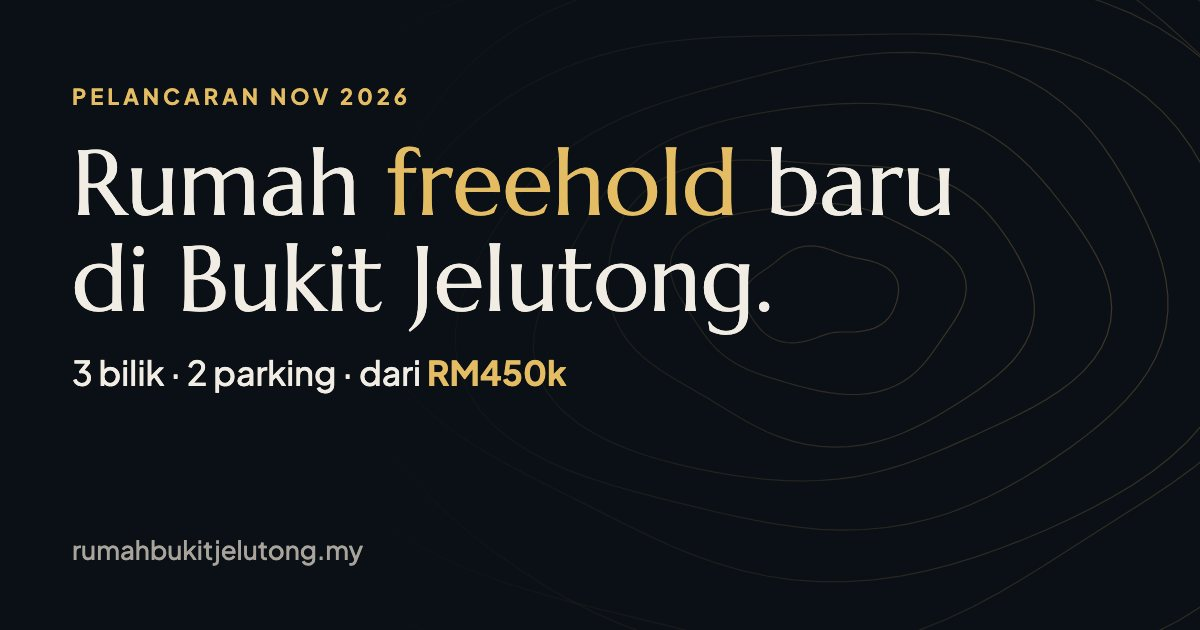
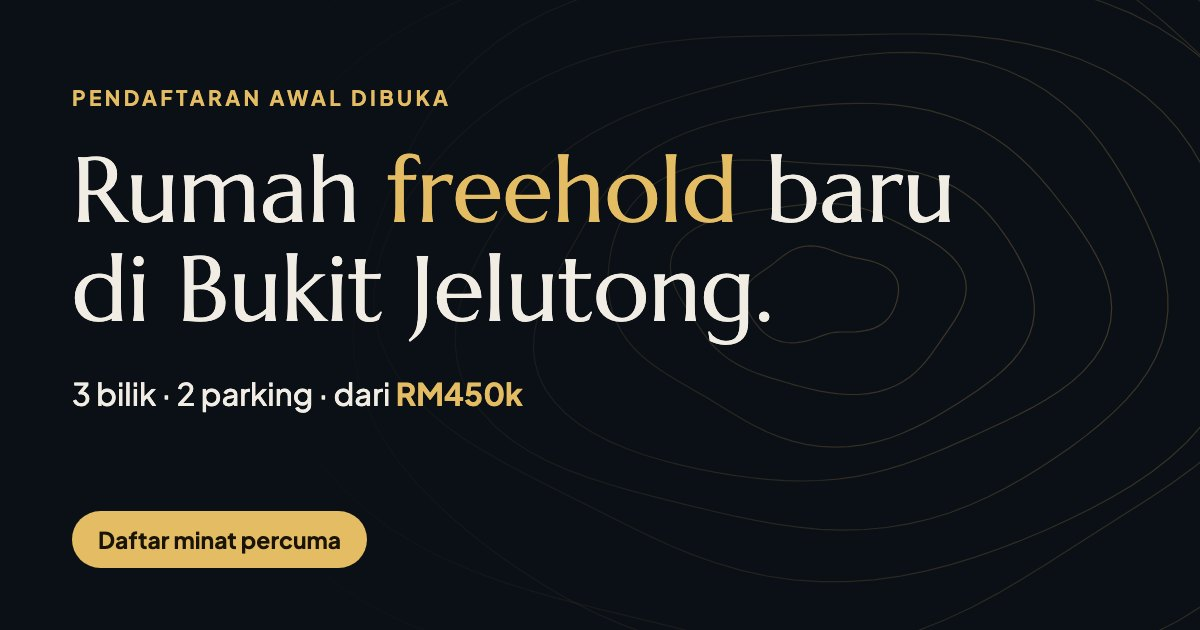
Move to fcgfelixcheng.com/rumahbukitjelutong for Meta traffic + SEO
Form moved under the hero, ?v= ad-matched headlines, relative paths,
no visit rows in the lead Sheet, new share image, launch date softened.

diff --git a/index.html b/index.html
@@ -5,16 +5,16 @@
 <meta name="viewport" content="width=device-width, initial-scale=1, viewport-fit=cover">
 <title>Rumah Bukit Jelutong Freehold Baru 2026 | 3 Bilik dari RM450k</title>
 <meta name="description" content="Projek kediaman freehold baru di Bukit Jelutong, Shah Alam. 3 bilik 2 bilik air dari RM450k, pilihan dual key, 2 parking. Showroom dibuka Nov 2026. Daftar minat percuma.">
-<link rel="canonical" href="https://rumahbukitjelutong.my/">
+<link rel="canonical" href="https://fcgfelixcheng.com/rumahbukitjelutong/">
 <meta name="theme-color" content="#0B1016">
-<link rel="icon" href="/favicon.svg" type="image/svg+xml">
-<link rel="apple-touch-icon" href="/assets/icon-180.png">
+<link rel="icon" href="favicon.svg" type="image/svg+xml">
+<link rel="apple-touch-icon" href="assets/icon-180.png">
 <meta property="og:type" content="website">
 <meta property="og:locale" content="ms_MY">
-<meta property="og:url" content="https://rumahbukitjelutong.my/">
+<meta property="og:url" content="https://fcgfelixcheng.com/rumahbukitjelutong/">
 <meta property="og:title" content="Rumah Freehold Baru di Bukit Jelutong | 3 Bilik dari RM450k">
 <meta property="og:description" content="Freehold. 3 bilik 2 bilik air, dual key, 2 parking. Showroom Nov 2026. Daftar minat percuma.">
-<meta property="og:image" content="https://rumahbukitjelutong.my/assets/og.jpg">
+<meta property="og:image" content="https://fcgfelixcheng.com/rumahbukitjelutong/assets/og.jpg">
 <meta property="og:image:width" content="1200">
 <meta property="og:image:height" content="630">
 <meta name="twitter:card" content="summary_large_image">
@@ -23,7 +23,7 @@
 <link rel="stylesheet" href="https://fonts.googleapis.com/css2?family=Marcellus&family=Plus+Jakarta+Sans:wght@400;500;600;700&family=Noto+Sans+SC:wght@500&display=swap">
 <script type="application/ld+json">
 {"@context":"https://schema.org","@graph":[
-{"@type":"WebSite","@id":"https://rumahbukitjelutong.my/#site","url":"https://rumahbukitjelutong.my/","name":"Rumah Bukit Jelutong","inLanguage":"ms-MY"},
+{"@type":"WebSite","@id":"https://fcgfelixcheng.com/rumahbukitjelutong/#site","url":"https://fcgfelixcheng.com/rumahbukitjelutong/","name":"Rumah Bukit Jelutong","inLanguage":"ms-MY"},
 {"@type":"Place","name":"Rumah freehold baru Bukit Jelutong","address":{"@type":"PostalAddress","addressLocality":"Bukit Jelutong, Shah Alam","addressRegion":"Selangor","postalCode":"40160","addressCountry":"MY"},"geo":{"@type":"GeoCoordinates","latitude":3.097673,"longitude":101.537301}},
 {"@type":"FAQPage","mainEntity":[
 {"@type":"Question","name":"Projek ni freehold ke?","acceptedAnswer":{"@type":"Answer","text":"Ya. Pegangan freehold di Bukit Jelutong, Shah Alam."}},
@@ -62,7 +62,7 @@ p{margin:0}
 .eyebrow{font-size:12.5px;font-weight:600;letter-spacing:.16em;text-transform:uppercase;color:var(--gold)}
 .en{color:var(--muted);font-size:14.5px}
 .num{font-variant-numeric:tabular-nums}
-section{padding-block:72px}
+section{padding-block:72px;scroll-margin-top:58px}
 .sec-head{display:flex;flex-direction:column;gap:12px;max-width:680px;margin-bottom:34px}
 /* top bar */
 .top{position:sticky;top:0;z-index:20;background:rgba(11,16,22,.86);backdrop-filter:blur(10px);-webkit-backdrop-filter:blur(10px);border-bottom:1px solid var(--line);padding-top:env(safe-area-inset-top,0px)}
@@ -82,7 +82,7 @@ section{padding-block:72px}
 @media (max-width:560px){.top .btn-line{display:none}}
 /* hero */
 .hero{position:relative;overflow:hidden;padding-block:64px 56px;border-bottom:1px solid var(--line)}
-.hero::before{content:"";position:absolute;inset:0;background:url(/assets/contour.svg) center/cover no-repeat;opacity:.7;pointer-events:none}
+.hero::before{content:"";position:absolute;inset:0;background:url(assets/contour.svg) center/cover no-repeat;opacity:.7;pointer-events:none}
 .hero::after{content:"";position:absolute;inset:0;background:linear-gradient(90deg,var(--bg) 18%,rgba(11,16,22,.55) 62%,rgba(11,16,22,.2));pointer-events:none}
 .hero .wrap{position:relative;z-index:1;display:flex;flex-direction:column;gap:22px}
 .hero h1 em{font-style:normal;color:var(--gold)}
@@ -194,7 +194,7 @@ function logLead(type,data){
 
 <header class="top">
   <div class="wrap">
-    <a class="brand" href="/"><img src="/favicon.svg" alt="" width="28" height="28"><span>Rumah Bukit Jelutong</span></a>
+    <a class="brand" href="./"><img src="favicon.svg" alt="" width="28" height="28"><span>Rumah Bukit Jelutong</span></a>
     <div class="top-cta">
       <a class="btn btn-line btn-sm" href="#daftar">Daftar minat</a>
       <a class="btn btn-gold btn-sm" data-wa href="https://wa.me/60182131314?text=Hi%20Felix%2C%20saya%20nak%20info%20rumah%20freehold%20baru%20di%20Bukit%20Jelutong.">WhatsApp</a>
@@ -205,10 +205,24 @@ function logLead(type,data){
 <main>
 <section class="hero">
   <div class="wrap">
-    <span class="eyebrow">Pelancaran Nov 2026 · Pendaftaran awal dibuka</span>
-    <h1>Rumah <em>freehold</em> baru<br>di Bukit Jelutong.</h1>
-    <p class="lede">3 bilik, 2 bilik air, 2 parking. Dari <strong class="num">RM450k</strong>. Duduk di Bukit Jelutong tanpa harga landed.</p>
-    <p class="en">New freehold homes in Bukit Jelutong, Shah Alam. 3-bedroom from RM450k. Showroom opens November 2026.</p>
+    <span class="eyebrow">Showroom dijangka Nov 2026 · Pendaftaran awal dibuka</span>
+    <h1 id="h-title">Rumah <em>freehold</em> baru<br>di Bukit Jelutong.</h1>
+    <p class="lede" id="h-lede">3 bilik, 2 bilik air, 2 parking. Dari <strong class="num">RM450k</strong>. Duduk di Bukit Jelutong tanpa harga landed.</p>
+    <p class="en" id="h-en">New freehold homes in Bukit Jelutong, Shah Alam. 3-bedroom from RM450k. Showroom expected November 2026.</p>
+    <script>
+    /* ad-matched hero: ?v=keluarga | pelabur | en. No param = default copy, which is what Google indexes. */
+    (function(){
+      var H={
+        keluarga:['Rumah <em>freehold</em> untuk keluarga di Bukit Jelutong.','3 bilik, 2 bilik air, 2 parking. Dari <strong class="num">RM450k</strong>. Kolam kanak-kanak dan wet play di bawah rumah.','Freehold family homes in Bukit Jelutong. 3-bedroom from RM450k, with a kids’ pool and wet play.'],
+        pelabur:['Satu unit, <em>dua pintu</em>.<br>Freehold di Bukit Jelutong.','Pilihan dual key: duduk bahagian utama, sewakan studio. 3 bilik dari <strong class="num">RM450k</strong>, 2 parking.','Dual key option: live in the main unit, rent out the studio. Freehold, 3-bedroom from RM450k.'],
+        en:['New <em>freehold</em> homes<br>in Bukit Jelutong.','3 bedrooms, 2 bathrooms, 2 car parks. From <strong class="num">RM450k</strong>. A Bukit Jelutong address without the landed price.','Rumah freehold baru di Bukit Jelutong, Shah Alam. 3 bilik dari RM450k. Showroom dijangka November 2026.']
+      };
+      try{
+        var h=H[(new URLSearchParams(location.search).get('v')||'').toLowerCase()];
+        if(h){document.getElementById('h-title').innerHTML=h[0];document.getElementById('h-lede').innerHTML=h[1];document.getElementById('h-en').textContent=h[2]}
+      }catch(e){}
+    })();
+    </script>
     <ul class="chips">
       <li><b>Freehold</b></li>
       <li>Dari 833 sqft</li>
@@ -221,6 +235,37 @@ function logLead(type,data){
       <a class="btn btn-line" data-wa href="https://wa.me/60182131314?text=Hi%20Felix%2C%20saya%20nak%20info%20rumah%20freehold%20baru%20di%20Bukit%20Jelutong.">WhatsApp Felix</a>
     </div>
     <div class="perk"><span class="dot" aria-hidden="true"></span><p><b>50 pendaftar terawal: partially furnished.</b> Kabinet dapur atas dan bawah dengan hood, hob dan oven, 2-3 aircond, water heater setiap bilik air.</p></div>
+  </div>
+</section>
+
+<section id="daftar" class="reg">
+  <div class="wrap">
+    <div class="sec-head">
+      <span class="eyebrow">Daftar minat · percuma, tiada bayaran</span>
+      <h2>Dapat harga dan pelan lantai dulu.</h2>
+      <p>50 pendaftar terawal dapat partially furnished, dan slot lawatan showroom terawal.</p>
+    </div>
+    <form class="form" id="regForm" novalidate>
+      <div class="field"><label for="f-name">Nama</label><input id="f-name" name="name" type="text" autocomplete="name" required></div>
+      <div class="field"><label for="f-phone">No. WhatsApp</label><input id="f-phone" name="phone" type="tel" inputmode="tel" autocomplete="tel" placeholder="012-345 6789" required></div>
+      <fieldset class="opts field full" id="f-unit"><legend class="legend">Saya berminat</legend>
+        <label class="opt"><input type="radio" name="unit" value="3 Bilik" checked><span>3 Bilik</span></label>
+        <label class="opt"><input type="radio" name="unit" value="3 Bilik Dual Key"><span>3 Bilik Dual Key</span></label>
+        <label class="opt"><input type="radio" name="unit" value="Belum pasti"><span>Belum pasti</span></label>
+      </fieldset>
+      <fieldset class="opts field full" id="f-goal"><legend class="legend">Untuk</legend>
+        <label class="opt"><input type="radio" name="goal" value="Duduk sendiri" checked><span>Duduk sendiri</span></label>
+        <label class="opt"><input type="radio" name="goal" value="Pelaburan"><span>Pelaburan</span></label>
+        <label class="opt"><input type="radio" name="goal" value="Untuk keluarga"><span>Untuk keluarga</span></label>
+      </fieldset>
+      <fieldset class="opts field full" id="f-when"><legend class="legend">Bila senang tengok showroom</legend>
+        <label class="opt"><input type="radio" name="when" value="Hujung minggu" checked><span>Hujung minggu</span></label>
+        <label class="opt"><input type="radio" name="when" value="Hari biasa"><span>Hari biasa</span></label>
+      </fieldset>
+      <label class="consent field full" for="f-ok"><input id="f-ok" type="checkbox" required><span>Saya setuju dihubungi melalui WhatsApp tentang projek ini. Lihat <a href="privasi/">notis privasi</a>.</span></label>
+      <div class="field full"><p class="err" id="f-err" role="alert"></p><button class="btn btn-gold" type="submit">Daftar dan WhatsApp saya</button></div>
+    </form>
+    <div class="done" id="f-done" role="status">Terima kasih. WhatsApp akan dibuka dengan butiran anda. Tekan hantar supaya Felix boleh simpan slot anda.</div>
   </div>
 </section>
 
@@ -329,37 +374,6 @@ function logLead(type,data){
   </div>
 </section>
 
-<section id="daftar" class="reg">
-  <div class="wrap">
-    <div class="sec-head">
-      <span class="eyebrow">Daftar minat · percuma, tiada bayaran</span>
-      <h2>Dapat harga dan pelan lantai dulu.</h2>
-      <p>50 pendaftar terawal dapat partially furnished, dan slot lawatan showroom terawal pada November.</p>
-    </div>
-    <form class="form" id="regForm" novalidate>
-      <div class="field"><label for="f-name">Nama</label><input id="f-name" name="name" type="text" autocomplete="name" required></div>
-      <div class="field"><label for="f-phone">No. WhatsApp</label><input id="f-phone" name="phone" type="tel" inputmode="tel" autocomplete="tel" placeholder="012-345 6789" required></div>
-      <fieldset class="opts field full" id="f-unit"><legend class="legend">Saya berminat</legend>
-        <label class="opt"><input type="radio" name="unit" value="3 Bilik" checked><span>3 Bilik</span></label>
-        <label class="opt"><input type="radio" name="unit" value="3 Bilik Dual Key"><span>3 Bilik Dual Key</span></label>
-        <label class="opt"><input type="radio" name="unit" value="Belum pasti"><span>Belum pasti</span></label>
-      </fieldset>
-      <fieldset class="opts field full" id="f-goal"><legend class="legend">Untuk</legend>
-        <label class="opt"><input type="radio" name="goal" value="Duduk sendiri" checked><span>Duduk sendiri</span></label>
-        <label class="opt"><input type="radio" name="goal" value="Pelaburan"><span>Pelaburan</span></label>
-        <label class="opt"><input type="radio" name="goal" value="Untuk keluarga"><span>Untuk keluarga</span></label>
-      </fieldset>
-      <fieldset class="opts field full" id="f-when"><legend class="legend">Bila senang tengok showroom</legend>
-        <label class="opt"><input type="radio" name="when" value="Hujung minggu" checked><span>Hujung minggu</span></label>
-        <label class="opt"><input type="radio" name="when" value="Hari biasa"><span>Hari biasa</span></label>
-      </fieldset>
-      <label class="consent field full" for="f-ok"><input id="f-ok" type="checkbox" required><span>Saya setuju dihubungi melalui WhatsApp tentang projek ini. Lihat <a href="/privasi/">notis privasi</a>.</span></label>
-      <div class="field full"><p class="err" id="f-err" role="alert"></p><button class="btn btn-gold" type="submit">Daftar dan WhatsApp saya</button></div>
-    </form>
-    <div class="done" id="f-done" role="status">Terima kasih. WhatsApp akan dibuka dengan butiran anda. Tekan hantar supaya Felix boleh simpan slot anda.</div>
-  </div>
-</section>
-
 <section id="soalan">
   <div class="wrap">
     <div class="sec-head">
@@ -367,7 +381,7 @@ function logLead(type,data){
       <h2>Yang orang selalu tanya.</h2>
     </div>
     <div class="faq">
-      <details><summary>Projek apa ni? Siapa pemaju?</summary><p>Nama projek dan pemaju diumumkan semasa pelancaran rasmi, November 2026. Daftar minat untuk terima maklumat penuh dulu.</p></details>
+      <details><summary>Projek apa ni? Siapa pemaju?</summary><p>Nama projek dan pemaju diumumkan semasa pelancaran rasmi. Daftar minat untuk terima maklumat penuh dulu.</p></details>
       <details><summary>Freehold ke?</summary><p>Ya. Pegangan freehold di Bukit Jelutong, Shah Alam.</p></details>
       <details><summary>Harga dari berapa?</summary><p>3 bilik 2 bilik air dari RM450k. Senarai harga penuh setiap jenis dikongsi semasa pelancaran.</p></details>
       <details><summary>Bila showroom dibuka?</summary><p>Dijangka November 2026. Pendaftar awal dapat slot lawatan terawal.</p></details>
@@ -386,7 +400,7 @@ function logLead(type,data){
   <div class="wrap">
     <p class="who">Felix · WhatsApp <a data-wa href="https://wa.me/60182131314">018-213 1314</a></p>
     <p>Maklumat di laman ini ialah maklumat awal sebelum pelancaran. Butiran rasmi mengikut dokumen pemaju semasa pelancaran. Data harga dan sewa sekitar dari Brickz.my dan Mudah.my, Oktober 2026.</p>
-    <p><a href="/privasi/">Notis privasi</a></p>
+    <p><a href="privasi/">Notis privasi</a></p>
   </div>
 </footer>
 
@@ -404,9 +418,6 @@ function logLead(type,data){
     logLead('wa_click',{property:'BJ site button'});
     try{fbq('track','Contact')}catch(e){}
   },true);
-
-  /* one visit row per session */
-  try{if(!sessionStorage.getItem('bjv')){sessionStorage.setItem('bjv','1');logLead('visit',{country:(Intl.DateTimeFormat().resolvedOptions().timeZone||'')})}}catch(e){}
 
   /* registration form */
   var form=document.getElementById('regForm'),err=document.getElementById('f-err'),done=document.getElementById('f-done');

diff --git a/privasi/index.html b/privasi/index.html
@@ -5,8 +5,8 @@
 <meta name="viewport" content="width=device-width, initial-scale=1">
 <title>Notis Privasi | Rumah Bukit Jelutong</title>
 <meta name="robots" content="noindex">
-<link rel="canonical" href="https://rumahbukitjelutong.my/privasi/">
-<link rel="icon" href="/favicon.svg" type="image/svg+xml">
+<link rel="canonical" href="https://fcgfelixcheng.com/rumahbukitjelutong/privasi/">
+<link rel="icon" href="../favicon.svg" type="image/svg+xml">
 <style>
 :root{--bg:#0B1016;--fg:#F2EDE4;--muted:#A8A49B;--line:#26313E;--gold:#E4BC63;color-scheme:dark}
 body{margin:0;background:var(--bg);color:var(--fg);font:16px/1.7 "Plus Jakarta Sans",system-ui,-apple-system,"Segoe UI",sans-serif;padding:40px 20px 64px}
@@ -19,9 +19,9 @@ a{color:var(--gold)}
 </head>
 <body>
 <main>
-<a href="/">&larr; Kembali</a>
+<a href="../">&larr; Kembali</a>
 <h1>Notis Privasi</h1>
-<p>Notis ini menerangkan bagaimana maklumat anda digunakan apabila anda daftar minat di rumahbukitjelutong.my, selaras dengan Akta Perlindungan Data Peribadi 2010.</p>
+<p>Notis ini menerangkan bagaimana maklumat anda digunakan apabila anda daftar minat di laman Rumah Bukit Jelutong, selaras dengan Akta Perlindungan Data Peribadi 2010.</p>
 <h2>Maklumat yang dikumpul</h2>
 <ul><li>Nama dan nombor WhatsApp yang anda isi.</li><li>Pilihan anda: jenis unit, tujuan dan masa lawatan.</li><li>Maklumat lawatan asas: halaman, sumber rujukan dan zon waktu peranti.</li></ul>
 <h2>Tujuan</h2>

diff --git a/404.html b/404.html
@@ -1,1 +1,1 @@
-<!doctype html><html lang="ms"><head><meta charset="utf-8"><meta name="viewport" content="width=device-width, initial-scale=1"><title>Halaman tiada | Rumah Bukit Jelutong</title><meta http-equiv="refresh" content="0; url=/"></head><body style="background:#0B1016;color:#F2EDE4;font-family:system-ui;padding:40px"><a href="/" style="color:#E4BC63">Ke halaman utama</a></body></html>
+<!doctype html><html lang="ms"><head><meta charset="utf-8"><meta name="viewport" content="width=device-width, initial-scale=1"><title>Halaman tiada | Rumah Bukit Jelutong</title><meta http-equiv="refresh" content="0; url=/rumahbukitjelutong/"></head><body style="background:#0B1016;color:#F2EDE4;font-family:system-ui;padding:40px"><a href="/rumahbukitjelutong/" style="color:#E4BC63">Ke halaman utama</a></body></html>
